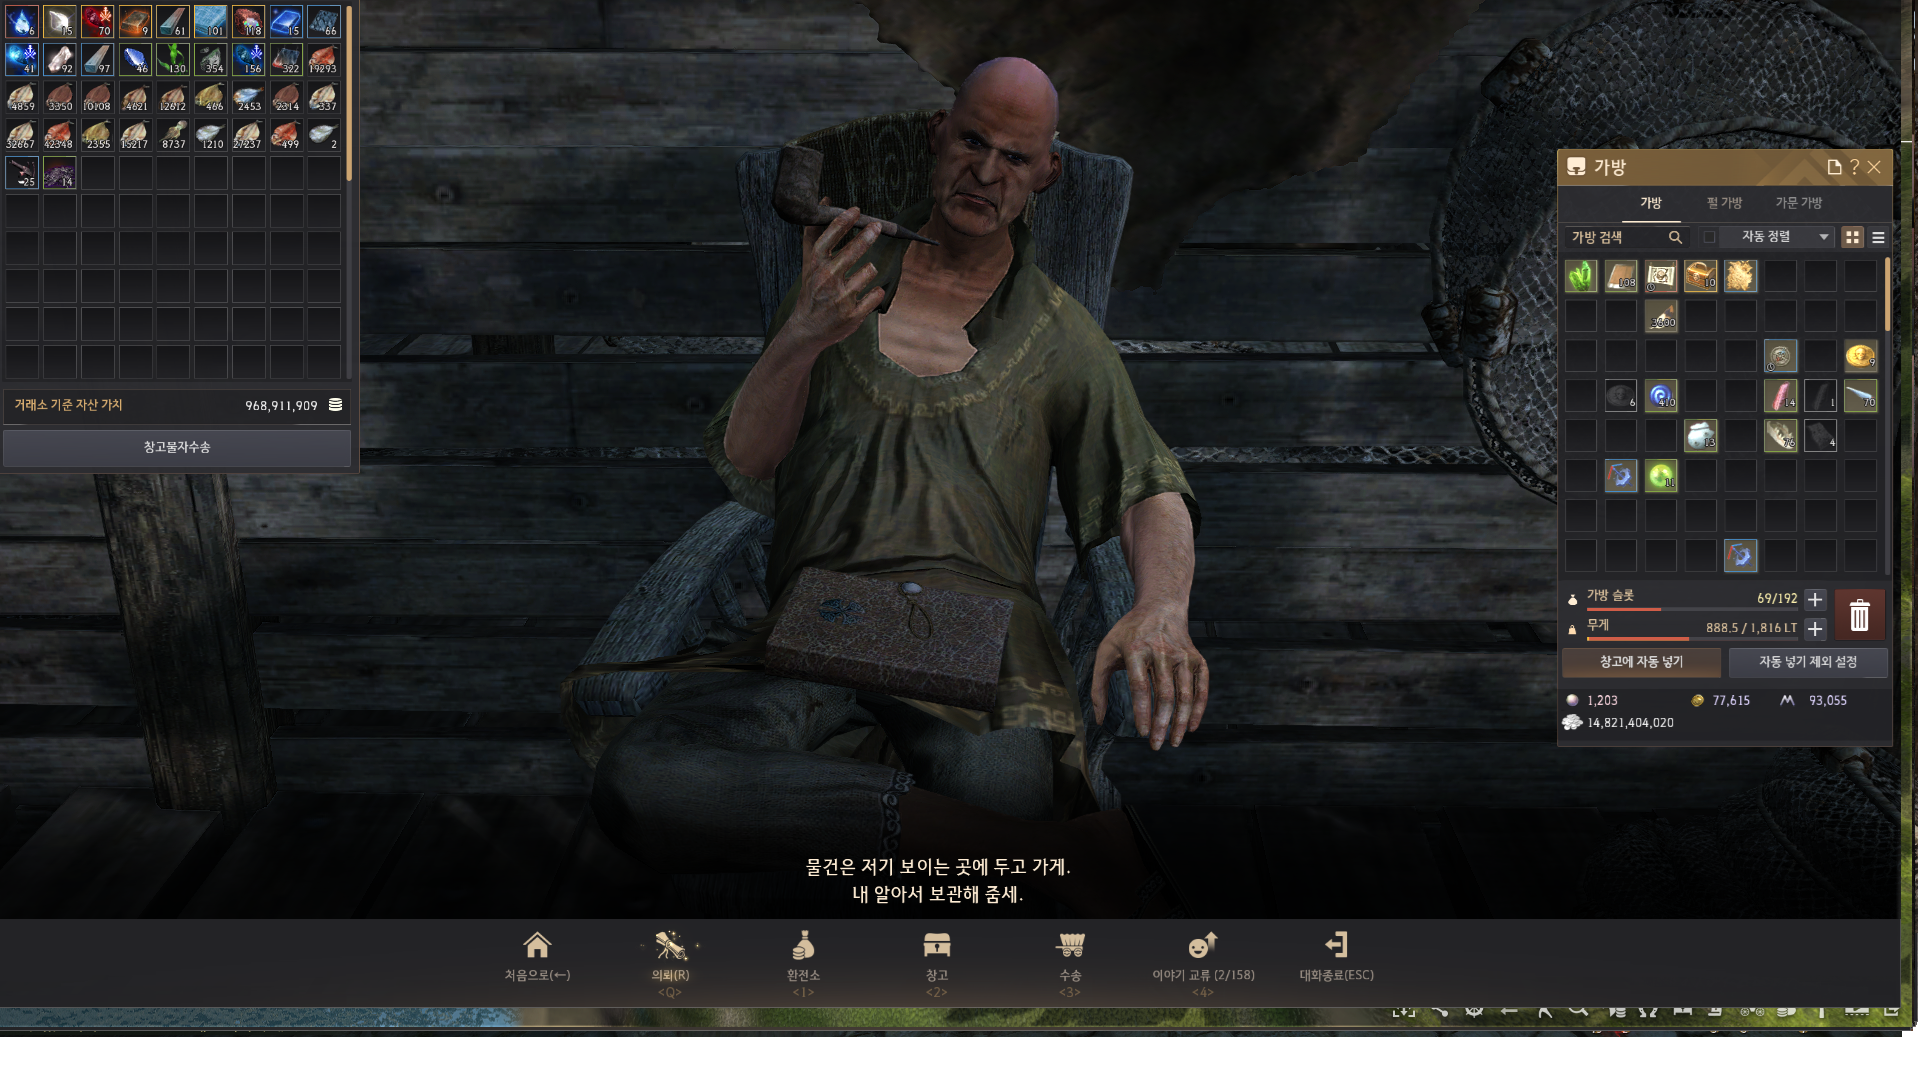
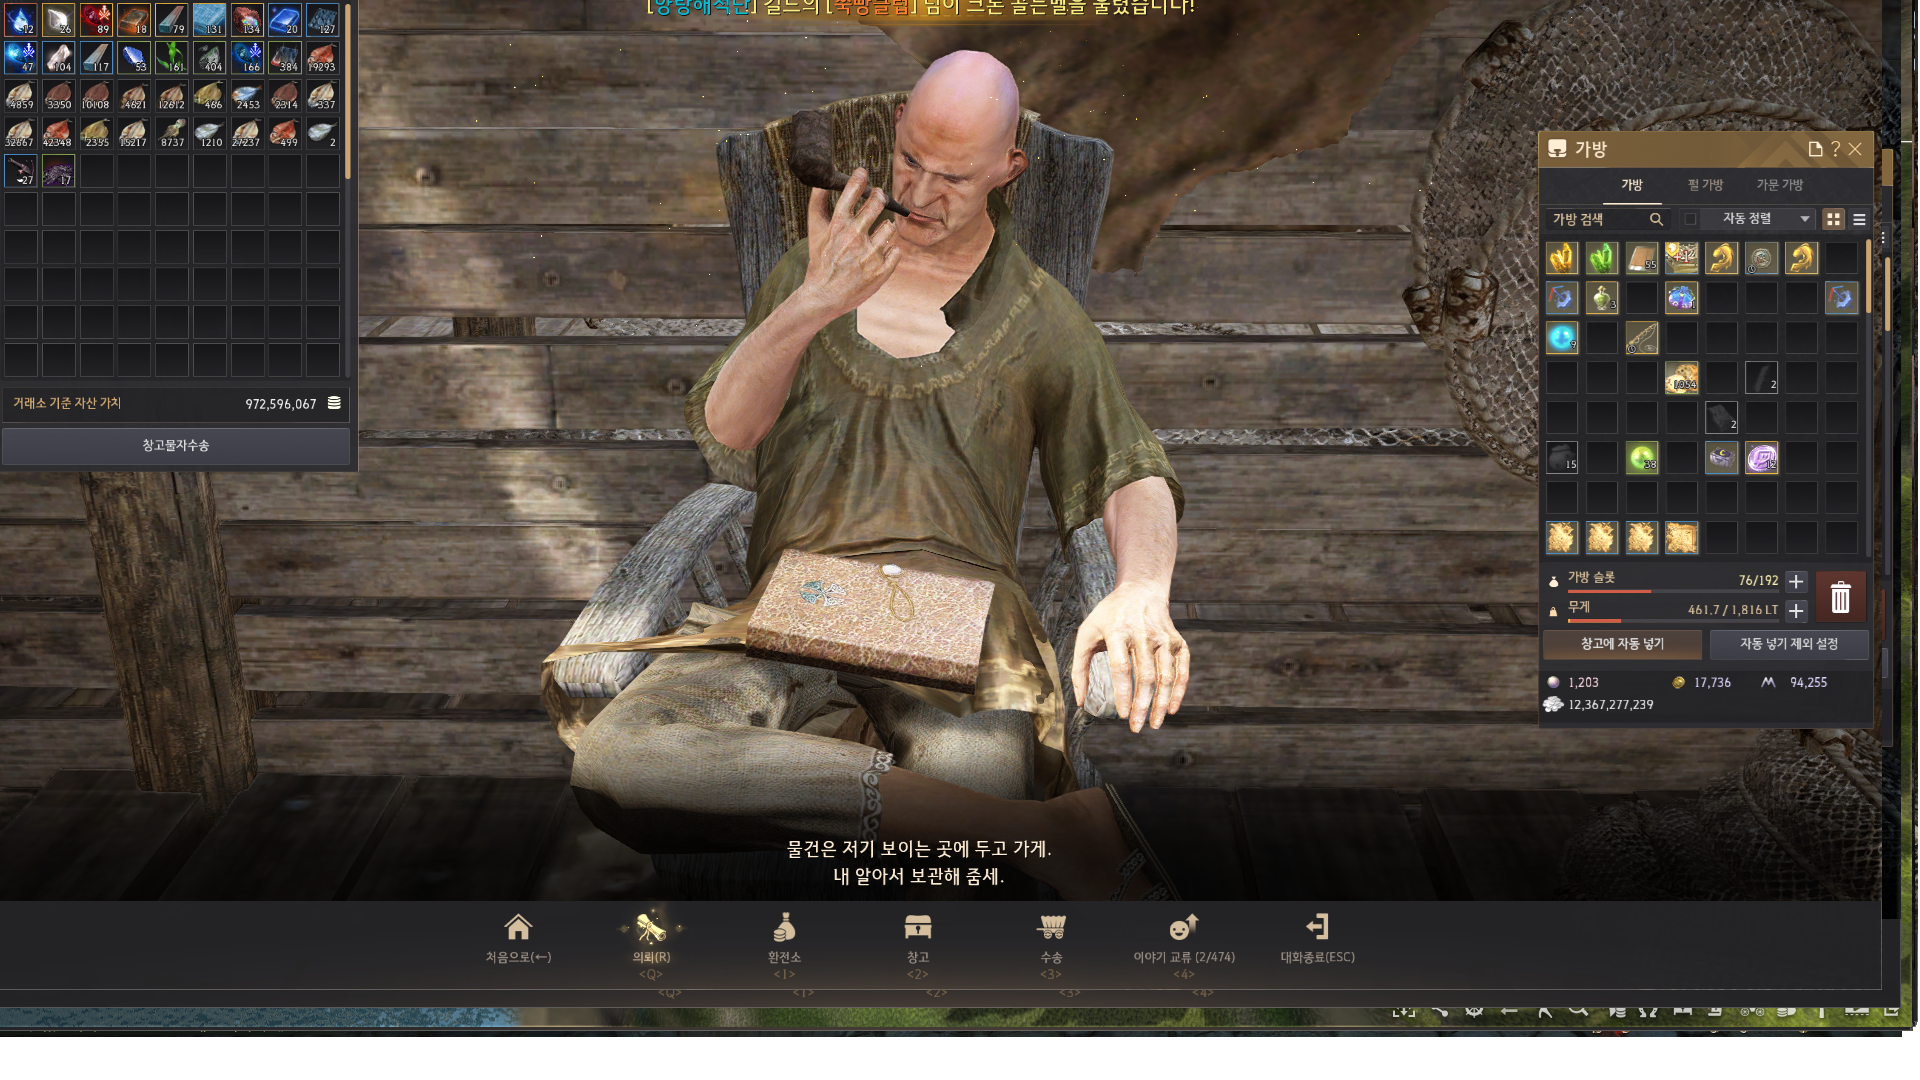
ㄹㅇㅎㅇㄹ

diff --git a/black_해역사진.html b/black_해역사진.html
@@ -444,23 +444,23 @@
 
       <div id="파템재료_일퀘개수" class="d-inline-block 재료높이" style="vertical-align: top;">
         <div><button></button><button style="font-size: 14px;line-height: 16px;">일퀘개수</button><button title="파템재료_일퀘개수">보유</button><button>메모</button></div>
-        <div><button class="에페리아창고사진일부분" style="background-position: -2px -2px;"></button><button>1</button><button    class="노랑">6</button><button>[일일] 어린 <span class="a_형식">검은무쇠이빨</span> 1개</button></div><!-- 심해의 눈물 1-->
-        <div><button class="에페리아창고사진일부분" style="background-position: -2px -2px;"></button><button>물교</button><button class="노랑">15</button><button>물교 1개</button></div><!-- 화려한 진주 결정-->
-        <div><button class="에페리아창고사진일부분" style="background-position: -2px -2px;"></button><button>3</button><button    class="노랑">70</button><button>[병사] 3개</button></div><!-- 콕스유물 전투 -->
-        <div><button class="에페리아창고사진일부분" style="background-position: -2px -2px;"></button><button>물교</button><button class="노랑">9</button><button>물교 1개</button></div><!-- 화려한 암염 주괴-->
-        <div><button class="에페리아창고사진일부분" style="background-position: -2px -2px;"></button><button>3</button><button    class="노랑">61</button><button>[병사] 3개 (짙은 파도빛)</button></div><!--짙은 파도빛이 감도는 규격 각목 3 -->
-        <div><button class="에페리아창고사진일부분" style="background-position: -2px -2px;"></button><button>3</button><button    class="노랑">101</button><button>[나루터지기]어린 나인샤크 3개</button></div><!-- 달의 핏줄이 새겨진 아마포 3-->
-        <div><button class="에페리아창고사진일부분" style="background-position: -2px -2px;"></button><button>2</button><button    class="노랑">118</button><button>[큐리오]2개</button></div><!-- 홍조빛 해저 단괴-->
-        <div><button class="에페리아창고사진일부분" style="background-position: -2px -2px;"></button><button>물교</button><button class="노랑">15</button><button>물교 1개</button></div><!--빛나는 코발트주괴 -->
-        <div><button class="에페리아창고사진일부분" style="background-position: -2px -2px;"></button><button>10</button><button    class="노랑">66</button><button>[나루터지기]어린 칸디둠 10개</button></div><!-- 달의 비늘이 새겨진 합판-->
-        <div><button class="에페리아창고사진일부분" style="background-position: -2px -2px;"></button><button>1</button><button    class="노랑">41</button><button>협상 상급 [물교퀘] 1개</button></div><!-- 콕스유물 상급-->
-        <div><button class="에페리아창고사진일부분" style="background-position: -2px -2px;"></button><button>2</button><button    class="노랑">92</button><button>[물교퀘] 2개</button></div><!-- 순수한 진주결정-->
-        <div><button class="에페리아창고사진일부분" style="background-position: -2px -2px;"></button><button>3</button><button    class="노랑">97</button><button>[병사] 3개 (파도빛)</button></div><!--파도빛이 감도는 규격 각목 -->
-        <div><button class="에페리아창고사진일부분" style="background-position: -2px -2px;"></button><button>물교</button><button class="노랑">46</button><button>물교 3개</button></div><!-- 대양의 견고한 현철-->
-        <div><button class="에페리아창고사진일부분" style="background-position: -2px -2px;"></button><button>4</button><button    class="노랑">130</button><button>[큐리오] 4개</button></div><!-- 심해초 줄기-->
-        <div><button class="에페리아창고사진일부분" style="background-position: -2px -2px;"></button><button>8</button><button    class="노랑">354</button><button>[물교퀘] 8개</button></div><!-- 순수한 암초조각-->
-        <div><button class="에페리아창고사진일부분" style="background-position: -2px -2px;"></button><button>3</button><button    class="노랑">156</button><button>협상 하급 [물교퀘] 1개</button></div><!-- 콕스유물 하급-->
-        <div><button class="에페리아창고사진일부분" style="background-position: -2px -2px;"></button><button>10</button><button    class="노랑">322</button><button>[물교퀘] 10개</button></div><!--강화된 섬나무 증착합판 -->
+        <div><button class="에페리아창고사진일부분" style="background-position: -2px -2px;"></button><button>1</button><button    class="노랑">12</button><button>[일일] 어린 <span class="a_형식">검은무쇠이빨</span> 1개</button></div><!-- 심해의 눈물 1-->
+        <div><button class="에페리아창고사진일부분" style="background-position: -2px -2px;"></button><button>물교</button><button class="노랑">26</button><button>물교 1개</button></div><!-- 화려한 진주 결정-->
+        <div><button class="에페리아창고사진일부분" style="background-position: -2px -2px;"></button><button>3</button><button    class="노랑">89</button><button>[병사] 3개</button></div><!-- 콕스유물 전투 -->
+        <div><button class="에페리아창고사진일부분" style="background-position: -2px -2px;"></button><button>물교</button><button class="노랑">18</button><button>물교 1개</button></div><!-- 화려한 암염 주괴-->
+        <div><button class="에페리아창고사진일부분" style="background-position: -2px -2px;"></button><button>3</button><button    class="노랑">79</button><button>[병사] 3개 (짙은 파도빛)</button></div><!--짙은 파도빛이 감도는 규격 각목 3 -->
+        <div><button class="에페리아창고사진일부분" style="background-position: -2px -2px;"></button><button>3</button><button    class="노랑">131</button><button>[나루터지기]어린 나인샤크 3개</button></div><!-- 달의 핏줄이 새겨진 아마포 3-->
+        <div><button class="에페리아창고사진일부분" style="background-position: -2px -2px;"></button><button>2</button><button    class="노랑">134</button><button>[큐리오]2개</button></div><!-- 홍조빛 해저 단괴-->
+        <div><button class="에페리아창고사진일부분" style="background-position: -2px -2px;"></button><button>물교</button><button class="노랑">20</button><button>물교 1개</button></div><!--빛나는 코발트주괴 -->
+        <div><button class="에페리아창고사진일부분" style="background-position: -2px -2px;"></button><button>10</button><button    class="노랑">127</button><button>[나루터지기]어린 칸디둠 10개</button></div><!-- 달의 비늘이 새겨진 합판-->
+        <div><button class="에페리아창고사진일부분" style="background-position: -2px -2px;"></button><button>1</button><button    class="노랑">47</button><button>협상 상급 [물교퀘] 1개</button></div><!-- 콕스유물 상급-->
+        <div><button class="에페리아창고사진일부분" style="background-position: -2px -2px;"></button><button>2</button><button    class="노랑">104</button><button>[물교퀘] 2개</button></div><!-- 순수한 진주결정-->
+        <div><button class="에페리아창고사진일부분" style="background-position: -2px -2px;"></button><button>3</button><button    class="노랑">117</button><button>[병사] 3개 (파도빛)</button></div><!--파도빛이 감도는 규격 각목 -->
+        <div><button class="에페리아창고사진일부분" style="background-position: -2px -2px;"></button><button>물교</button><button class="노랑">53</button><button>물교 3개</button></div><!-- 대양의 견고한 현철-->
+        <div><button class="에페리아창고사진일부분" style="background-position: -2px -2px;"></button><button>4</button><button    class="노랑">161</button><button>[큐리오] 4개</button></div><!-- 심해초 줄기-->
+        <div><button class="에페리아창고사진일부분" style="background-position: -2px -2px;"></button><button>8</button><button    class="노랑">404</button><button>[물교퀘] 8개</button></div><!-- 순수한 암초조각-->
+        <div><button class="에페리아창고사진일부분" style="background-position: -2px -2px;"></button><button>3</button><button    class="노랑">166</button><button>협상 하급 [물교퀘] 1개</button></div><!-- 콕스유물 하급-->
+        <div><button class="에페리아창고사진일부분" style="background-position: -2px -2px;"></button><button>10</button><button    class="노랑">384</button><button>[물교퀘] 10개</button></div><!--강화된 섬나무 증착합판 -->
       </div>
     </div>
   </div>
